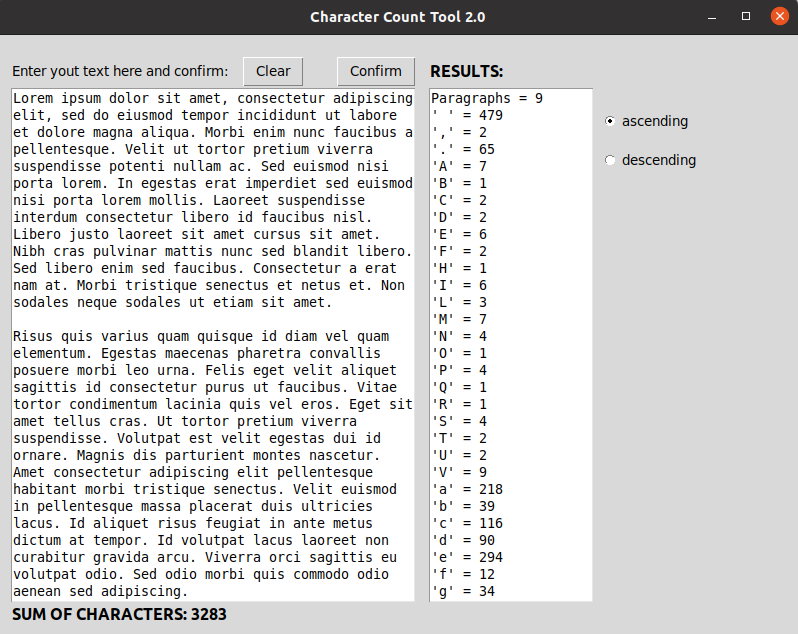
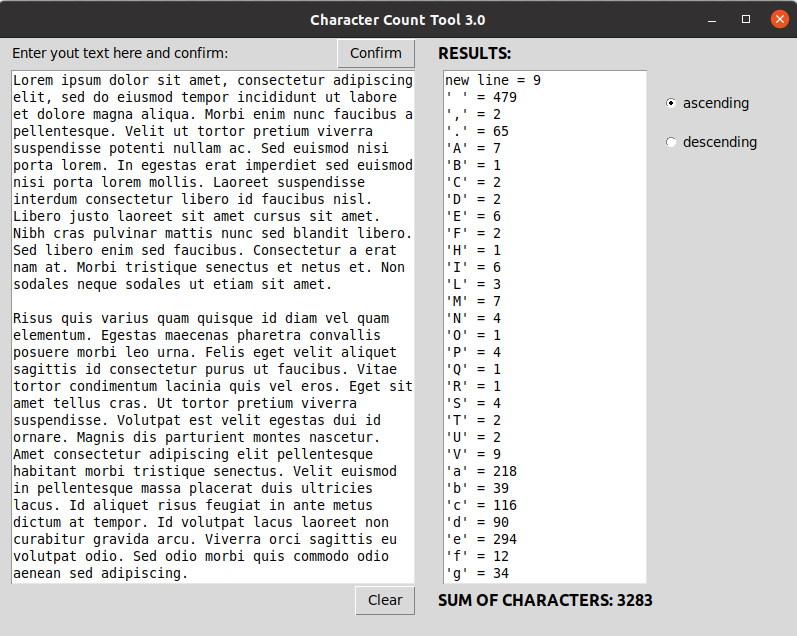
modified:   charcountf.py modified:   charctool.py replaced:   gui_preview.png

diff --git a/charctool.py b/charctool.py
@@ -6,61 +6,55 @@ class Application(Frame):
     def __init__(self, master):
         super(Application, self).__init__(master)
         self.grid()
-        self.labels(0)
+        self.labels()
         self.usertxt()
         self.asc_desc()
         self.buttons()
         self.results()
         self.confirm_clear()
 
-
-    def labels(self, char_sum):  
-        Label(self, text="SUM OF CHARACTERS: {}           ".format(char_sum), font='Ubuntu 12 bold').grid(row=32, column=1,sticky=W) 
-        Label(self, text="  ").grid(row=0, column=0)
-        Label(self, text="  ").grid(row=0, column=3)
-        Label(self, text="RESULTS: ",font='Ubuntu 12 bold').grid(row=1, column=4, sticky=W)
-        Label(self, text="Enter yout text here and confirm:").grid(row=1, column=1, sticky=W)
-
+    def labels(self): 
+        Label(self, textvariable=char_sum, font='Ubuntu 12 bold').grid(row=32, column=4, sticky=W)
+        Label(self, text="RESULTS: ",font='Ubuntu 12 bold').grid(row=0, column=4, sticky=W)
+        Label(self, text="Enter yout text here and confirm:").grid(row=0, column=1, sticky=W)
+        Label(self, width=1).grid(row=0, column=0)
+        Label(self, width=2).grid(row=0, column=3)
 
     def usertxt(self):
         self.usrtxt=Text(self, width=50, height=30, wrap=WORD)
-        self.usrtxt.grid(row=2, column=1, rowspan=30, columnspan=2)
-
+        self.usrtxt.grid(row=1, column=1, rowspan=30, columnspan=2)
 
     def buttons(self):
-        Button(self, text='Confirm', command=self.confirm).grid(row=1,column=2, sticky=E)
-        Button(self, text='Clear', command=self.confirm_clear).grid(row=1,column=1, sticky=E)
+        Button(self, text='Confirm', command=self.confirm).grid(row=0,column=2, sticky=E)
+        Button(self, text='Clear', command=self.confirm_clear).grid(row=32,column=2, sticky=E)
 
-        
     def results(self):
-        self.outputtxt=Text(self, width=20, height=30, wrap=WORD)
-        self.outputtxt.grid(row=2, rowspan=30, column=4)
-
+        self.outputtxt=Text(self, width=25, height=30, wrap=WORD)
+        self.outputtxt.grid(row=1, rowspan=30, column=4)
 
     def asc_desc(self):
         self.var=BooleanVar()
         self.var.set(True)
-        Radiobutton(self, text='ascending', variable=self.var, value=False, command=self.confirm).grid(row=3, column=5, sticky =W)
-        Radiobutton(self, text='descending', variable=self.var, value=True, command=self.confirm).grid(row=4, column=5, sticky =W)
-
+        Radiobutton(self, text='ascending', variable=self.var, value=False, command=self.confirm).grid(row=2, column=5, sticky =W)
+        Radiobutton(self, text='descending', variable=self.var, value=True, command=self.confirm).grid(row=3, column=5, sticky =W)
 
     def confirm(self):
         txt = CharacterCounter((self.usrtxt.get("0.0", END))[:-1]) #[:-1] removes from the text 'enter character' introduced by GUI
         self.outputtxt.delete(0.0, END)
         self.outputtxt.insert(0.0, txt.chartxtcount(self.var.get()))
-        self.char_sum=str(txt.lenght_of_text)
-        self.labels(self.char_sum)
-
+        char_sum.set("SUM OF CHARACTERS: {}".format(str(txt.lenght_of_text)))
+        self.labels()
 
     def confirm_clear(self):
         self.usrtxt.delete(0.0, END)
-        self.char_sum=0
-        self.labels(self.char_sum)
+        self.outputtxt.delete(0.0, END)
+        char_sum.set("SUM OF CHARACTERS: {}".format(0))
+        self.labels()
 
 root = Tk()
-root.title('Character Count Tool 2.0')
+char_sum = StringVar("")
+root.title('Character Count Tool 3.0')
 root.geometry("800x600")
 app = Application(root)
-
 
 root.mainloop()

diff --git a/charcountf.py b/charcountf.py
@@ -1,9 +1,3 @@
-#This code is to present function that count all characters (including whitespaces) in any text provided by variable <anytext>.
-#For each character the number of its occurrences in the text is calculated and given on a separate line
-#Returns sorted results: chartxtcount(anytext, arg)
-#<arg> value is optional. A Boolean. False will sort ascending, True will sort descending. Default is False
-#Dictionary methods were used.
-
 class CharacterCounter:
     
     def __init__(self, text):
@@ -21,7 +15,7 @@ class CharacterCounter:
                     self.lenght_of_text+=1
             for j,k in dic.items():
                 if j == "\n":
-                    resultscolumn.append("Paragraphs" + ' = ' + str(k+1))
+                    resultscolumn.append("new line" + ' = ' + str(k+1))
                 else:
                     resultscolumn.append("'" + j + "'" + ' = ' + str(k))
             return "\n".join(resultscolumn)
